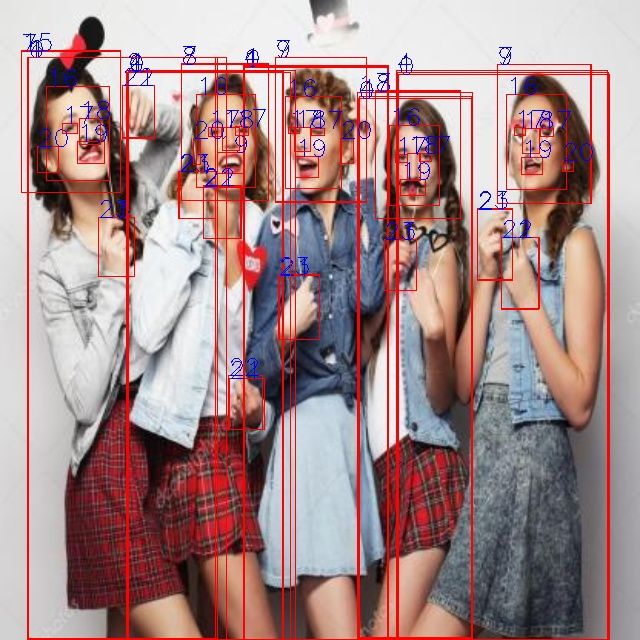
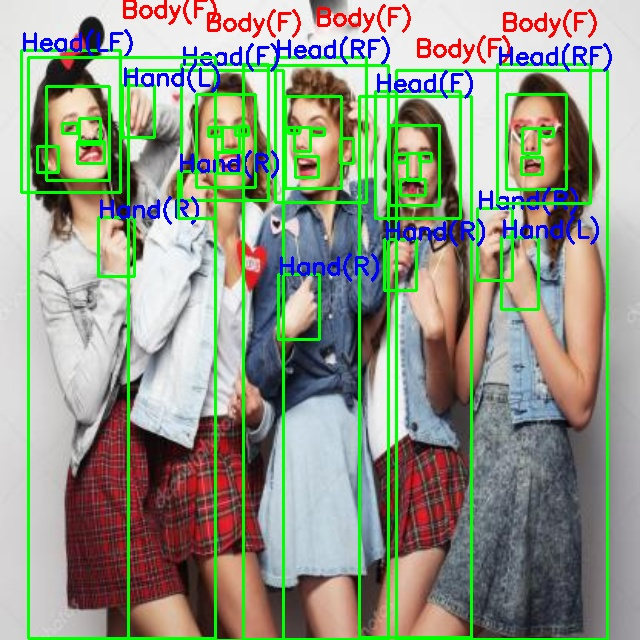
RealTime attempted(20fps)

Changed region(s): [[0.0312, 0.0, 0.9688, 1.0]]

diff --git a/trtinf/lib.py b/trtinf/lib.py
@@ -3,8 +3,9 @@ import tensorrt
 import numpy
 import pycuda.driver as cuda
 import pycuda.autoinit, cv2
-import matplotlib.pyplot as plt
-import pyrealsense2 as rs
+# import matplotlib.pyplot as plt
+#import pyrealsense2 as rs
+import time
 
 classes = {
     # 0: 'Body',
@@ -15,14 +16,14 @@ classes = {
     # 5: 'Body_with_Wheelchair',
     # 6: 'Body_with_Crutches',
     # 7: 'Head',
-    8: 'Head(Front)',
-    9: 'Head(RFront)',
-    10: 'Head(RSide)',
-    11: 'Head(RBack)',
-    12: 'Head(Back)',
-    13: 'Head(LBack)',
-    14: 'Head(LSide)',
-    15: 'Head(LFront)',
+    8: 'Head(F)',
+    9: 'Head(RF)',
+    10: 'Head(R)',
+    11: 'Head(RB)',
+    12: 'Head(B)',
+    13: 'Head(LB)',
+    14: 'Head(L)',
+    15: 'Head(LF)',
     16: '',#Face
     17: '',#Eye
     18: '',#Nose
@@ -46,15 +47,18 @@ class TRT_INF:
         
         self.engine_path = engine_path
         self.__LOGGER, self.__RUNTIME, self.__ENGINE = self.__load_engine()
-        self.__input_buffers, self.__output_buffers = self.__allocate_buffers(outShape=(100,7))
+        self.__input_buffers, self.__output_buffers = self.__allocate_buffers(outShape=(1000,7))
         self.__context, self.__stream = self.__create_execution_context()
-        # img = self.__get_img("test_imgs/273271-2b427000e2a2b025_jpg.rf.7d933851f233dcd09cf166e310a4b407.jpg")
+
+        # cap = cv2.VideoCapture(0)
+        # img = self.__get_img("test_imgs/273271-1ba93000e00e011c_jpg.rf.b86e6597a572425a278b60a8863e0227.jpg")
         # data = self.__preprocess(img)
         # self.__inference(data)
         # bboxes, classes = self.__postprocess(img)
         # self.__draw_boxes(img, bboxes, classes)
         
-        self.__run_realsense()
+        self.__run_web_camera()
+        # self.__run_realsense()
 
     def __load_engine(self):
         if not os.path.exists(self.engine_path): print(f"{'[ERROR][TRT_INF:__load_engine]':.<40}:The path '{self.engine_path}' does not exist"), exit(1)
@@ -122,7 +126,7 @@ class TRT_INF:
     
     def __get_img(self, cap=None):
         if not isinstance(cap, cv2.VideoCapture):
-            return self.__get_img_from_file("test_imgs/273271-1ba93000e00e011c_jpg.rf.b86e6597a572425a278b60a8863e0227.jpg")
+            return self.__get_img_from_file(cap)
         ret, img = cap.read()
         if not ret:
             print(f"{'[ERROR][TRT_INF:__get_img]':.<40}: Failed to read image")
@@ -141,28 +145,80 @@ class TRT_INF:
     def __preprocess(self, img: numpy.ndarray):
         img = numpy.transpose(img, (2, 0, 1))
         img = numpy.expand_dims(img, axis=0)
-        print(f"{'[INFO][TRT_INF:__preprocess]':.<40}: Preprocess done")
-        return numpy.ascontiguousarray(img, dtype=numpy.float32)
+        # print(f"{'[INFO][TRT_INF:__preprocess]':.<40}: Preprocess done")
+        return img
     
     def __inference(self, data: numpy.ndarray):
         numpy.copyto(self.__input_buffers[0].cpu_buffer, data.ravel())
-        print(f"{'[INFO][TRT_INF:__inference]':.<40}: Data coppied to input buffer: {self.__input_buffers[0].cpu_buffer.base.get_device_pointer()}")
+        # print(f"{'[INFO][TRT_INF:__inference]':.<40}: Data coppied to input buffer: {self.__input_buffers[0].cpu_buffer.base.get_device_pointer()}")
         cuda.memcpy_htod_async(self.__input_buffers[0].gpu_buffer, self.__input_buffers[0].cpu_buffer, self.__stream)
         self.__context.execute_async_v3(self.__stream.handle)
         cuda.memcpy_dtoh_async(self.__output_buffers[0].cpu_buffer, self.__output_buffers[0].gpu_buffer, self.__stream)
         # self.__stream.synchronize()
-        print(f"{'[INFO][TRT_INF:__inference]':.<40}: Inference done")
+        # print(f"{'[INFO][TRT_INF:__inference]':.<40}: Inference done")
     
-    def __postprocess(self, img: numpy.ndarray):
+    def __postprocess(self, img: numpy.ndarray, width_ratio: float = 1.0, height_ratio: float = 1.0):
         output = numpy.trim_zeros(self.__output_buffers[0].cpu_buffer, "b").reshape(-1, 7)
         output = output[numpy.isin(output[:, 1], list(classes.keys()))]
         scores = output[:, 2]
-        mask = scores > 0.3
+        mask = scores > 0.4
         output = output[mask]
-        print(f"{'[INFO][TRT_INF:__postprocess]':.<40}: Output shape: {output.shape}")
-        bboxes = output[:, 3:7].astype(int)
+        # print(f"{'[INFO][TRT_INF:__postprocess]':.<40}: Output shape: {output.shape}")
+        
+        bboxes = output[:, 3:]
+        bboxes[:, 0] = bboxes[:, 0] * width_ratio
+        bboxes[:, 1] = bboxes[:, 1] * height_ratio
+        bboxes[:, 2] = bboxes[:, 2] * width_ratio
+        bboxes[:, 3] = bboxes[:, 3] * height_ratio
+        bboxes = bboxes.astype(int)
         _classes = output[:, 1].astype(int)
         return bboxes, _classes
+
+    def __run_web_camera(self):
+        cap = cv2.VideoCapture("v4l2src device=/dev/video0 ! image/jpeg,format=MJPG ! nvv4l2decoder mjpeg=1 ! nvvidconv ! video/x-raw,format=BGRx ! videoconvert ! video/x-raw,format=BGR ! appsink drop=1", cv2.CAP_GSTREAMER)
+        if not cap.isOpened():
+            # print(f"{'[ERROR][TRT_INF:__run_web_camera]':.<40}: Failed to open camera")
+            exit(1)
+
+        w = int(cap.get(cv2.CAP_PROP_FRAME_WIDTH))
+        h = int(cap.get(cv2.CAP_PROP_FRAME_HEIGHT))
+        print(f"{'[INFO][TRT_INF:__run_web_camera]':.<40}: Camera resolution: {w}x{h}")
+        w_ratio = w / 640
+        h_ratio = h / 640
+        print(f"{'[INFO][TRT_INF:__run_web_camera]':.<40}: Width ratio: {w_ratio}, Height ratio: {h_ratio}")
+        key = True
+        cnt = 0
+        fps = 0
+        while key:
+            start = time.time()
+            key, img = cap.read()
+            data = cv2.resize(img, (640, 640))
+            data = self.__preprocess(data)
+            self.__inference(data)
+            bboxes, _classes = self.__postprocess(img, w_ratio, h_ratio)
+            for i, box in enumerate(bboxes):
+                x1, y1, x2, y2 = box
+                # print(f"{'[INFO][TRT_INF:__run_web_camera]':.<40}: {i}: {box}, {_classes[i]}")
+                cv2.rectangle(img, (x1, y1), (x2, y2), (0, 0, 255), 2)
+                if _classes[i] in [3,4]:
+                    cv2.putText(img, classes[_classes[i]], (int(x1+(x2-x1)/2-35), int(y1-40)), cv2.FONT_HERSHEY_SIMPLEX, 0.8, (255, 255, 255), 2)
+                    continue
+                cv2.putText(img, classes[_classes[i]], (x1, y1), cv2.FONT_HERSHEY_SIMPLEX, 0.8, (255, 255, 255), 2)
+    
+            cv2.putText(img, f"FPS: {int(fps)}", (10, 30), cv2.FONT_HERSHEY_SIMPLEX, 0.8, (255, 255, 255), 2)
+            cv2.imshow("Image", img)
+            end = time.time()
+            fps = 1 / (end - start)
+
+            key = cv2.waitKey(1)
+            if key & 0xFF == ord('q'):
+                cv2.imwrite(f"output_{cnt}.jpg", img)
+                cnt += 1
+                print(f"{'[INFO][TRT_INF:__run_web_camera]':.<40}: Image saved as output.jpg")
+                # break
+        cap.release()
+        cv2.destroyAllWindows()
+    
 
     def __run_realsense(self):
         pipeline = rs.pipeline()
@@ -192,12 +248,15 @@ class TRT_INF:
     
     def __draw_boxes(self, img: numpy.ndarray, boxes: list, class_ids: list = None):
         print(f"{'[INFO][TRT_INF:__draw_boxes]':.<40}: num boxes: {len(boxes)}")
-        for i,box in enumerate(boxes):
+        for i, box in enumerate(boxes):
             x1, y1, x2, y2 = box
-            cv2.rectangle(img, (x1, y1), (x2, y2), (0, 0, 255), 2)
-            if class_ids is not None:
-                cv2.putText(img, classes[class_ids[i]], (x1, y1), cv2.FONT_HERSHEY_SIMPLEX, 0.6, (255, 0, 0), 2)
-
+            # print(f"{'[INFO][TRT_INF:__run_web_camera]':.<40}: {i}: {box}, {_classes[i]}")
+            cv2.rectangle(img, (x1, y1), (x2, y2), (0, 255, 0), 2)
+            if class_ids[i] in [3,4]:
+                cv2.putText(img, classes[class_ids[i]], (int(x1+(x2-x1)/2), int(y1-40)), cv2.FONT_HERSHEY_SIMPLEX, 0.8, (0, 0, 255), 2)
+                continue
+            cv2.putText(img, classes[class_ids[i]], (x1, y1), cv2.FONT_HERSHEY_SIMPLEX, 0.8, (255, 0, 0), 2)
+        cv2.imwrite("output.jpg", img)
         cv2.imshow("Image", img)
         cv2.waitKey(0)
         cv2.destroyAllWindows()

diff --git a/README.md b/README.md
@@ -1,2 +1,3 @@
 [YOLOv9-Wholebody25](https://github.com/PINTO0309/PINTO_model_zoo/tree/main/459_YOLOv9-Wholebody25) çalışması temel alınmıştır.
+
 ![out](output.jpg)
